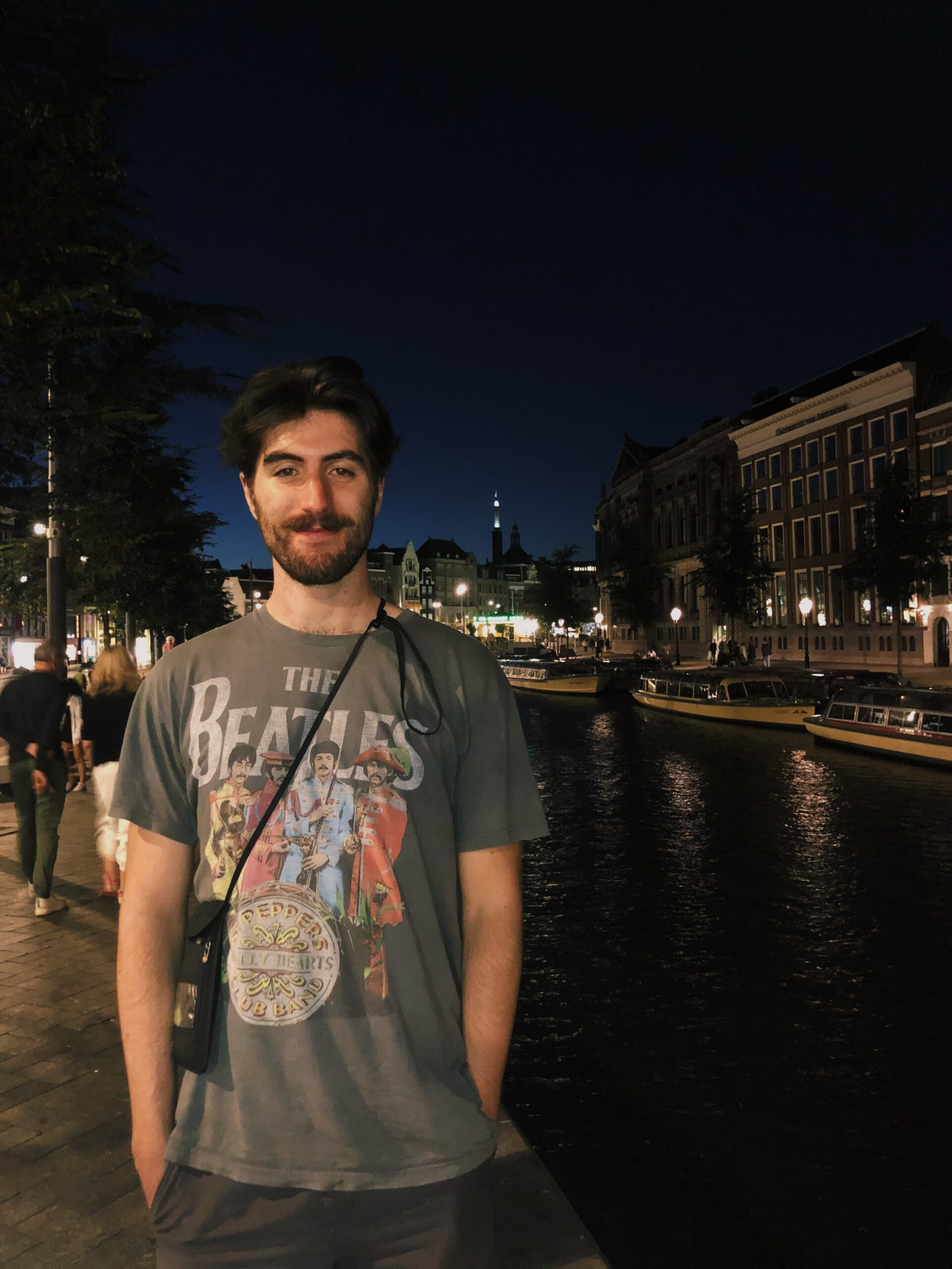
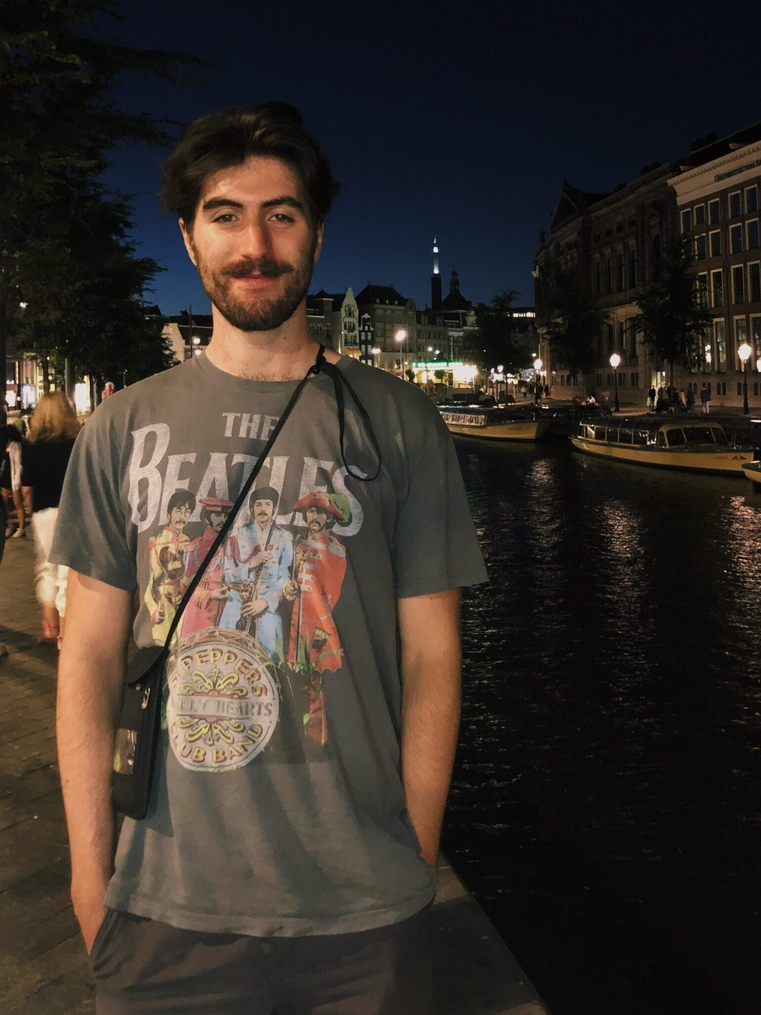
added about me section

diff --git a/index.html b/index.html
@@ -5,11 +5,57 @@
     <meta name="viewport" content="width=device-width, initial-scale=1">
     <title>Cameron Braunstein's Webpage</title>
     <link rel="icon" type="image/png" href="images/favicon.png">
+    <link href="https://cdn.jsdelivr.net/npm/bootstrap@5.2.3/dist/css/bootstrap.min.css" rel="stylesheet" integrity="sha384-rbsA2VBKQhggwzxH7pPCaAqO46MgnOM80zW1RWuH61DGLwZJEdK2Kadq2F9CUG65" crossorigin="anonymous">
+    <link href="https://cdnjs.cloudflare.com/ajax/libs/font-awesome/5.15.4/css/all.min.css" rel="stylesheet">
+    <link href="css/custom.css" rel="stylesheet"/>
   </head>
   <body>
-    <h1>Welcome to my Website</h1>
-    <p>My name is Cameron Braunstein, and I am a PhD student at Saarland University, in Saarbrücken, Germany.
-    </p>
-    <a href="documents/CameronBraunsteinCV.pdf" download>Full CV</a>
+    <h1 style="text-align: center; padding-top: 40px;">Cameron Braunstein</h1>
+    <div class="row">
+      <div class="col-4"></div>
+      <div class="col-4 d-flex justify-content-center align-items-center">
+        <a href="https://github.com/CameronBraunstein" class="btn btn-primary m-1" target="_blank">
+          <i class="fab fa-github icon-large"></i>
+        </a>
+        <a href="https://linkedin.com/in/cameron-braunstein-1a38801b8" class="btn btn-primary m-1" target="_blank">
+          <i class="fab fa-linkedin icon-large"></i>
+        </a>
+        <a href="mailto:cameronbraunstein@gmail.com" class="btn btn-primary m-1">
+          <i class="fas fa-envelope icon-large"></i>
+        </a>
+      </div>
+      <div class="col-4"></div>
+    </div>
+
+    <h2 class=spacer style="text-align: center;">About</h2>
+    <div class="row">
+      <div class="col-2"></div>
+      <div class="col-2">
+        <img src="images/profile_photo.jpg" alt="Profile Photo" style="width: 100%;">
+      </div>
+      <div class="col-6">
+        <p>My name is Cameron Braunstein, and I am a PhD student in Computer Science at Saarland University in Saarbrücken, Germany. 
+          I am supervised by <a href="https://cvmp.cs.uni-saarland.de/people/#eddy-ilg">Eddy Ilg</a> and <a href="https://mtoneva.com/">Mariya Toneva</a>, 
+          as a member of the first cohort of the Research Training Group <a href="https://www.neuroexplicit.org/">Neuroexplicit Models of Language, Vision, and Action</a>. 
+          My goal is to develop explainable vision‑language AI models which are well aligned with human cognition.
+        </p>
+        <p>
+          Prior to my PhD, I recieved my Master's degree in Data Science and Artificial Intelligence from Saarland University in 2023. The research from
+          my Master's thesis, <a href="https://arxiv.org/abs/2312.16118">Quantum-Hybrid Stereo Matching With Nonlinear Regularization and Spatial Pyramids</a>
+          was published at the <a href="https://3dvconf.github.io/2024/">International Conference on 3D Vision 2024</a>. 
+          I recieved my Bachelor's degree in Computer Science and Mathematics from Brandeis University in Waltham, Massachusetts in 2019.
+        </p>
+        <p>
+          I am passionate about tutoring and contributing to my academic community. I have been a teaching assistant for numerous courses. 
+          In addition to my Master's thesis, I delivered a talk on <a href="https://www.youtube.com/watch?v=fE8QXn4AbIw">Quantum Computing</a> at the Max Planck Institute for Informatics. 
+          I am currently serving as a PhD student representative for my Research Training Group.
+        </p>
+        <p>
+          In my spare time, I enjoy classical piano, chess, and studying mathematics. You can find my full CV <a href="documents/CameronBraunsteinCV.pdf" download>here</a>.
+        </p>
+      </div>
+      <div class="col-2"></div>
+    </div class="row">
+    
   </body>
 </html>

diff --git a/css/custom.css b/css/custom.css
@@ -1,0 +1,20 @@
+.spacer {
+    padding-top: 60px;
+    padding-bottom: 20px
+  }
+
+.icon-large {
+    font-size: 125%;
+  }
+
+.btn {
+    display: flex;
+    align-items: center;
+    justify-content: center;
+    background-color: rgba(0, 123, 255, 0.75);
+    border: none;
+    color: white;
+    width: 50px;
+    height: 50px;
+    border-radius: 50%;
+  }
